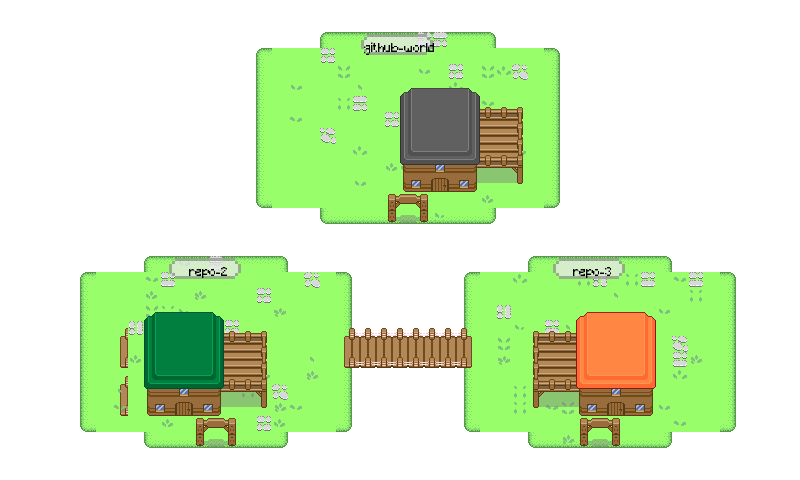
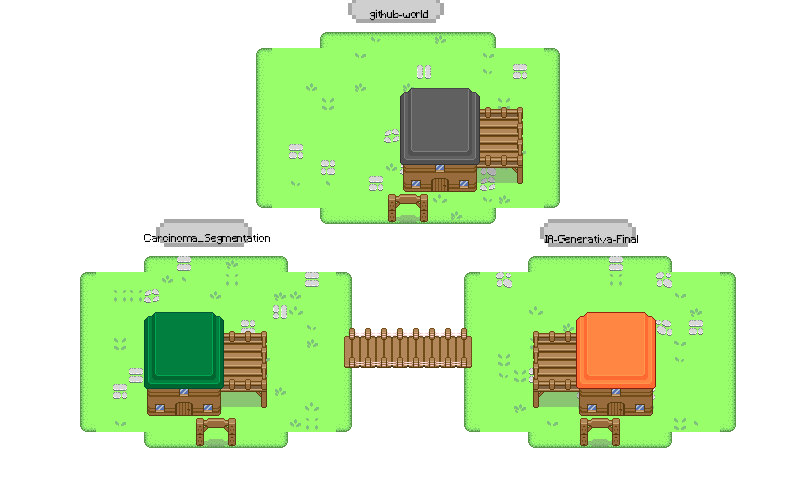
fix: conserteio posicionamento da tag e o bug das pontes aleatórias

diff --git a/generate.py b/generate.py
@@ -2,11 +2,16 @@ from PIL import Image, ImageDraw, ImageFont
 from pathlib import Path
 import random
 from assets_config_V2 import assets
+from github_activity import get_top_repositories
 
 
 BASE_DIR = Path(__file__).resolve().parent
 
 TILE_SIZE = 16
+
+top_repos = get_top_repositories(3)
+
+print(top_repos)
 
 
 # ============================================================
@@ -100,10 +105,10 @@ def create_repo_tag(
     repo_name,
     center_x,
     y,
-    font_size=25,
-    scale=3,
+    font_size=8,
+    scale=4,
     opacity=0.7,
-    offset_y=-10
+    offset_y=20
 ):
     """
     Cria uma tag com o nome do repositório.
@@ -516,8 +521,8 @@ def create_organic_island(
 
             x, y = random.choice(valid_positions)
 
-            # você possui p1 até p10
-            rock = f"p{random.randint(1, 10)}"
+            # você possui r1 até r10
+            rock = f"r{random.randint(1, 10)}"
 
             detail_layer[y][x] = rock
 
@@ -694,29 +699,29 @@ render_layer(
 
 create_repo_tag(
     background,
-    repo_name="github-world",
+    repo_name=top_repos[0],
     center_x=25,
     y=1,
-    font_size=12,
-    offset_y=-15
+    font_size=10,
+    offset_y= -65
 )
 
 create_repo_tag(
     background,
-    repo_name="repo-2",
+    repo_name=top_repos[1],
     center_x=13,
     y=15,
-    font_size=12,
-    offset_y=-15
+    font_size=10,
+    offset_y= -65
 )
 
 create_repo_tag(
     background,
-    repo_name="repo-3",
+    repo_name=top_repos[2],
     center_x=37,
     y=15,
-    font_size=12,
-    offset_y=-15
+    font_size=10,
+    offset_y= -65
 )
 
 

diff --git a/github_activity.py b/github_activity.py
@@ -1,10 +1,9 @@
 import requests
-from collections import defaultdict
 
 USERNAME = "NevesJulio"
 
 
-def get_activity():
+def get_top_repositories(limit=3):
 
     url = f"https://api.github.com/users/{USERNAME}/repos"
 
@@ -20,42 +19,23 @@ def get_activity():
 
     repos = response.json()
 
-    languages = defaultdict(int)
+    # remove forks
+    repos = [
+        repo
+        for repo in repos
+        if not repo["fork"]
+    ]
 
-    for repo in repos:
-
-        # Ignora forks
-        if repo["fork"]:
-            continue
-
-        language = repo["language"]
-
-        if language:
-            languages[language] += 1
-
-    total = sum(languages.values())
-
-    if total == 0:
-        return {
-            "destination": "Python",
-            "languages": {}
-        }
-
-    percentages = {
-        language: count / total
-        for language, count in languages.items()
-    }
-
-    destination = max(
-        percentages,
-        key=percentages.get
+    # ordena pelos atualizados mais recentemente
+    repos.sort(
+        key=lambda repo: repo["updated_at"],
+        reverse=True
     )
 
-    return {
-        "destination": destination,
-        "languages": percentages
-    }
+    # pega apenas os nomes
+    top_repos = [
+        repo["name"]
+        for repo in repos[:limit]
+    ]
 
-
-if __name__ == "__main__":
-    print(get_activity())
+    return top_repos

diff --git a/assets_config_V2.py b/assets_config_V2.py
@@ -113,7 +113,7 @@ n = 1
 for row in range(0, 2):
     for col in range(10, 16):
         assets.add(Tile(
-            f"p{n}",
+            f"r{n}",
             Ilhas,
             col=col,
             row=row
